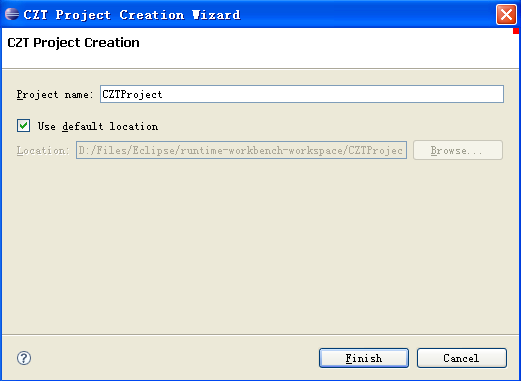
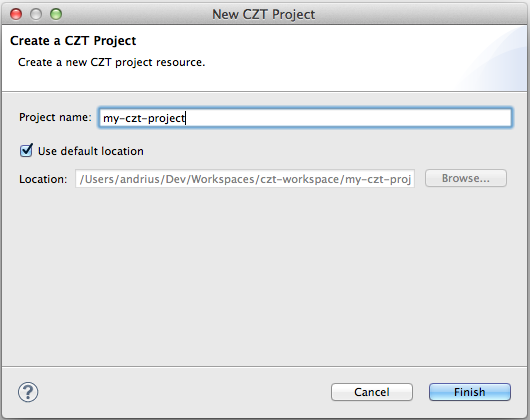
updated docs on creating CZT project

Changed region(s): [[0.0, 0.0, 1.0, 1.0]]

diff --git a/eclipse/net.sourceforge.czt.eclipse.doc/src/doxia/markdown/getting-started/create-project.md b/eclipse/net.sourceforge.czt.eclipse.doc/src/doxia/markdown/getting-started/create-project.md
@@ -1,16 +1,16 @@
-# Create New CZT Projects
+# Creating a CZT project
 
-The CZT editor plug-in provides a convenient wizard to help create a new project for editing
-Z specifications. The wizard can be opened using the menu entry
-**File > New > Project... > CZT > CZT Project**.
+Create a new CZT project to contain Z specifications by selecting **File > New > Project > CZT > CZT Project** in the menu.
 
-![New CZT Project Creation Wizard](../images/wizard_project.png)
+![New CZT project wizard](../images/wizard_project.png)
 
--   In this wizard, enter the name of the new project.
+1.   Enter the name of the new project (how it will be displayed within Eclipse workspace).
+2.   If you do not want to use the default location, specify one.
 
--   If you do not want to use the default location, specify one.
+     _Note: you can create CZT project on you existing directories: just specify an existing directory in the Location field. The name does not have to match the directory._
 
-If the CZT perspective is not opened at the moment, the wizard will ask you whether you want to
-open the CZT perspective. It is highly recommended that you open it because it will automatically
-open a set of Eclipse elements useful for the CZT development.  Then the new project will be
+
+If the **Z perspective** is not active at the moment, the wizard will ask you whether you want to
+open the Z perspective. It is highly recommended that you open it because it will automatically
+open a set of Eclipse views useful for the Z development.  Then the new project will be
 created and selected in the workbench window.
